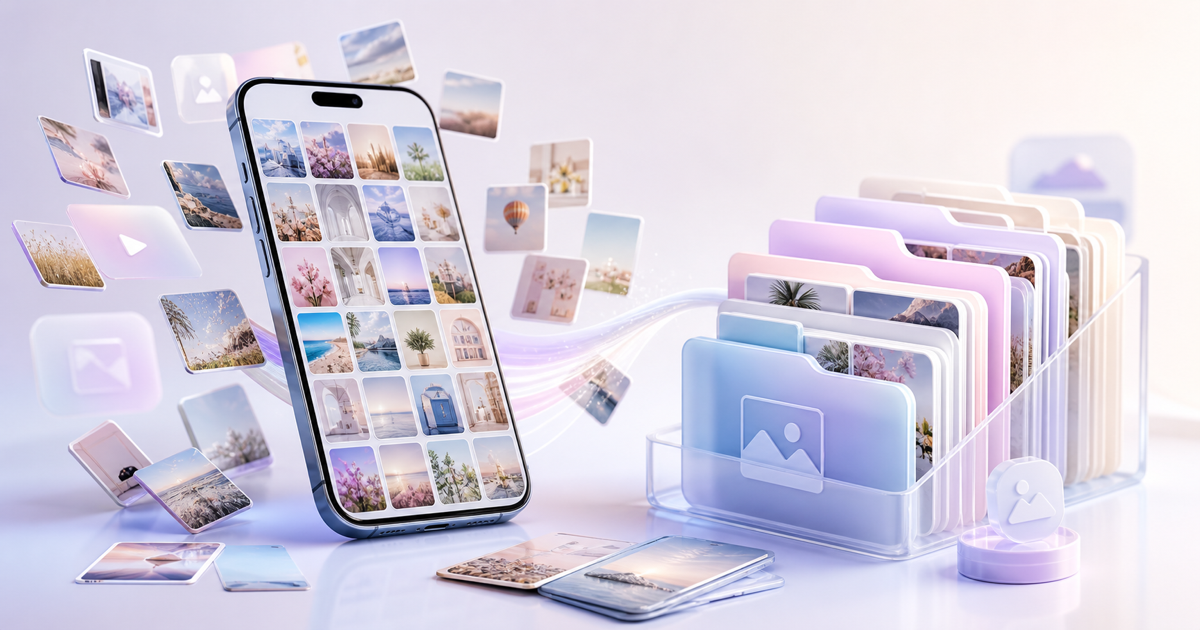
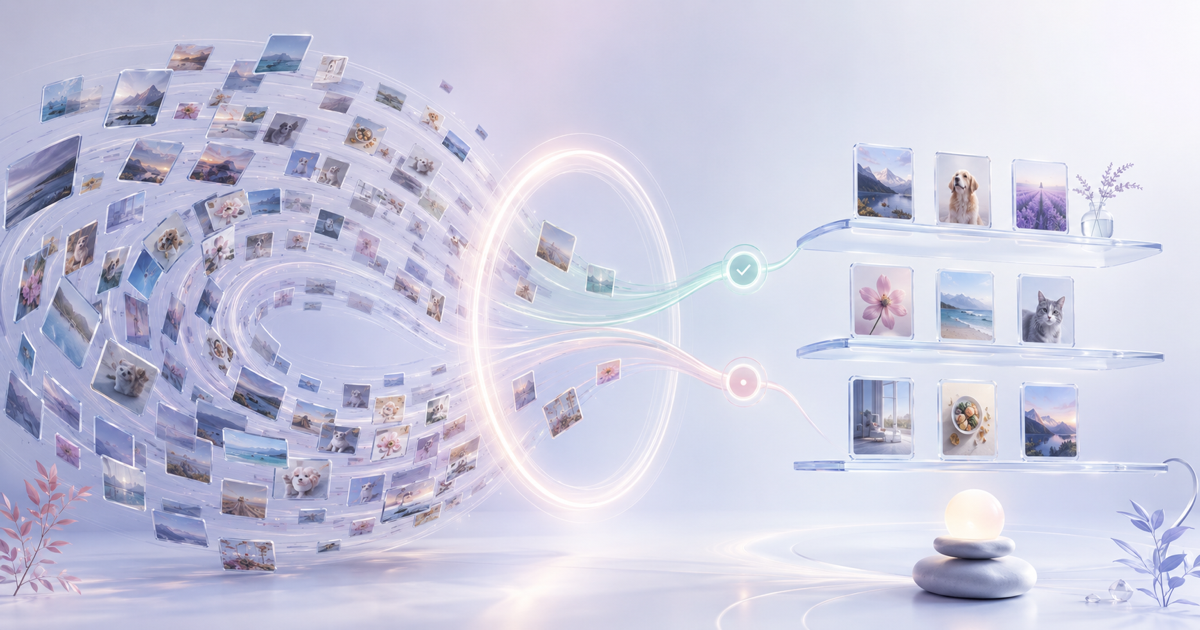
chore(site): update Instagram showcase and blog cover

diff --git a/src/main.jsx b/src/main.jsx
@@ -1947,6 +1947,14 @@ function DelitSocialPosts() {
   const posts = language === 'en'
     ? [
         {
+          title: 'Swipe to clean faster',
+          description: 'Swipe left to set aside, swipe right to keep, then check how much space you gained.',
+          image: '/social/delit-instagram-4.jpg',
+          alt: 'Del-It Instagram post about swipe-based photo cleanup and storage gain',
+          url: 'https://www.instagram.com/p/Da5X1uToCAT/',
+          caption: 'Could photo cleanup be this easy? Swipe left to delete, swipe right to keep. Decide in seconds, send unnecessary photos and videos to trash, then see how much space you gained.',
+        },
+        {
           title: 'On-device gallery cleanup',
           description: 'Your photos do not need to be uploaded anywhere while cleaning your gallery.',
           image: '/social/delit-instagram-1.jpg',
@@ -1972,6 +1980,14 @@ function DelitSocialPosts() {
         },
       ]
     : [
+        {
+          title: 'Kaydırarak hızlı temizlik',
+          description: 'Sola kaydır, silmek için ayır. Sağa kaydır, kalsın. Sonra kazandığın alanı gör.',
+          image: '/social/delit-instagram-4.jpg',
+          alt: 'Del-It kaydırarak fotoğraf temizleme ve alan kazanma Instagram paylaşımı',
+          url: 'https://www.instagram.com/p/Da5X1uToCAT/',
+          caption: 'Fotoğraf temizlemek bu kadar kolay olabilir mi? Sola kaydır, sil. Sağa kaydır, kalsın. Kararını saniyeler içinde ver, gereksiz fotoğraf ve videoları çöp kutusuna gönder.',
+        },
         {
           title: 'Cihaz içi galeri temizliği',
           description: 'Fotoğraflarını temizlerken onları hiçbir yere yüklemek zorunda değilsin.',